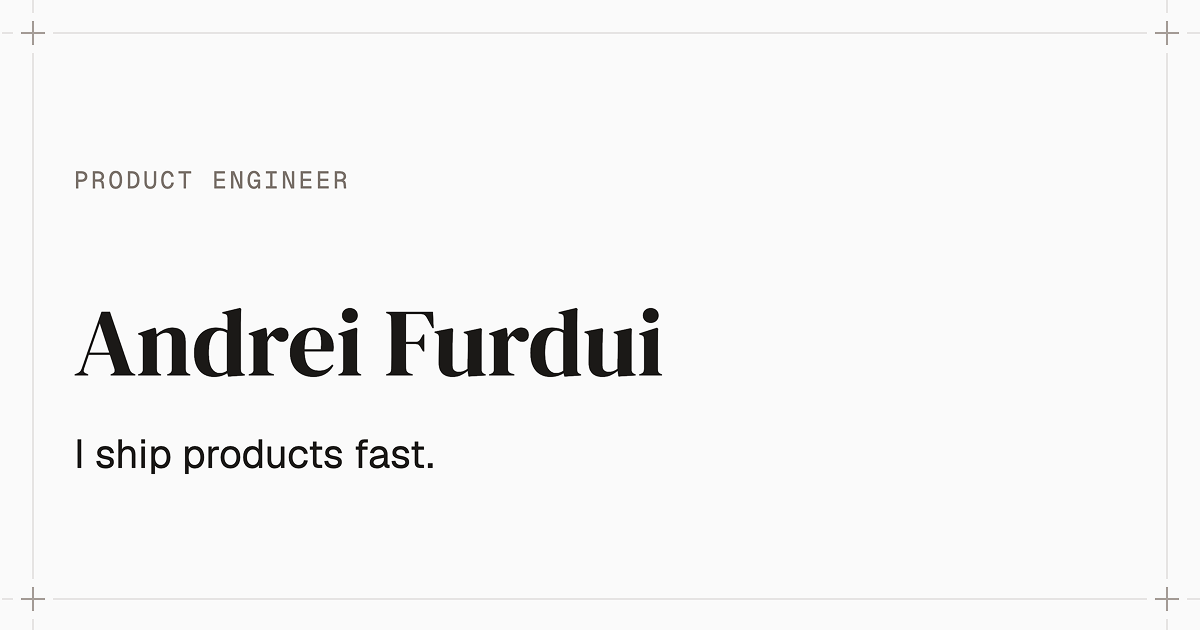
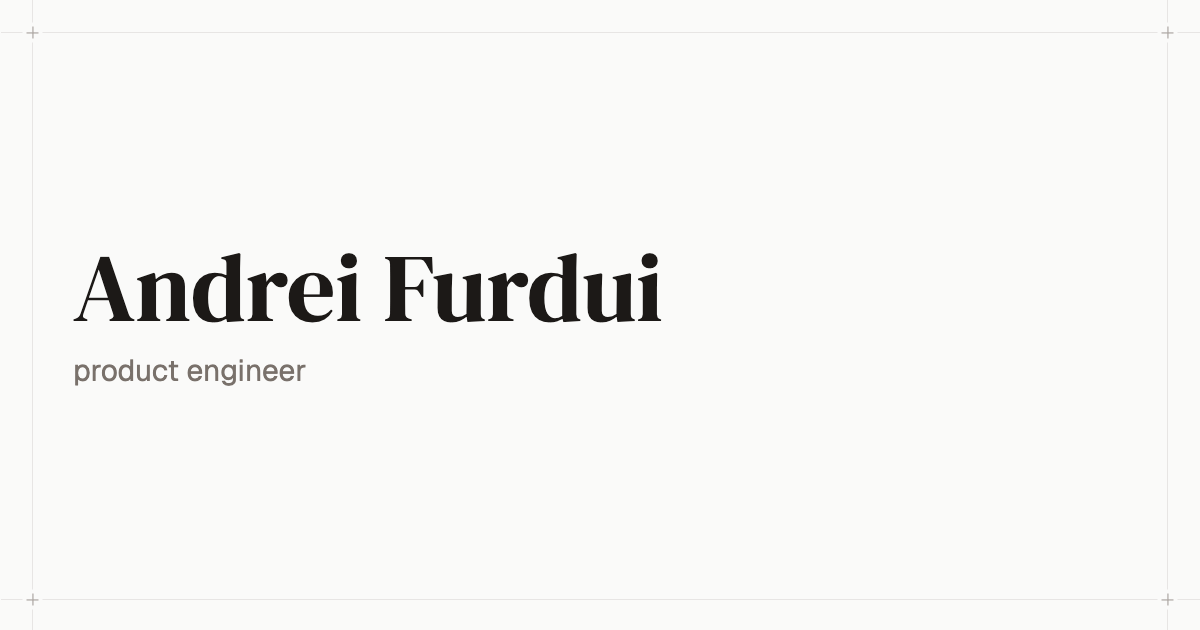
feat(ui): remove the top product engineer row

diff --git a/src/components/HomePage/HomePage.css b/src/components/HomePage/HomePage.css
@@ -142,18 +142,6 @@
   padding-block: fluid(var(--space-16), var(--space-24));
 }
 
-.home_page-hero_tag {
-  color: var(--ink-muted);
-  font-family: var(--font-mono);
-  font-size: var(--text-xs);
-  text-transform: uppercase;
-  letter-spacing: 0.12em;
-}
-
-.home_page-hero_tag[data-variant='muted'] {
-  color: var(--ink-faint);
-}
-
 .home_page-title {
   color: var(--ink-main);
   font-family: var(--font-heading);
@@ -162,10 +150,12 @@
   line-height: var(--leading-none);
 }
 
-.home_page-hero_lead {
-  color: var(--ink-main);
-  font-size: fluid(var(--text-xl), var(--text-3xl));
-  line-height: var(--leading-tight);
+.home_page-role {
+  color: var(--ink-muted);
+  font-family: var(--font-body);
+  font-size: fluid(var(--text-base), var(--text-xl));
+  font-weight: var(--weight-regular);
+  line-height: var(--leading-base);
 }
 
 /* CORE BELIEFS SECTION */

diff --git a/src/copy/home.ts b/src/copy/home.ts
@@ -22,13 +22,9 @@ export type HomeCopy = {
     title: string
     description: string
   }
-  ui: {
-    themeToggle: string
-  }
   hero: {
-    tag: string
     name: string
-    lead: string
+    role: string
   }
   beliefs: {
     title: string
@@ -93,15 +89,11 @@ export const homeCopy: HomeCopy = {
   meta: {
     title: 'Andrei Furdui · Product Engineer',
     description:
-      'I ship products fast. Ex-founder & former Volkswagen engineer. I build resilient, zero-bloat systems for startups.',
-  },
-  ui: {
-    themeToggle: 'Toggle theme',
+      'Product engineer. Ex-founder & former Volkswagen engineer. I build resilient, zero-bloat systems for startups.',
   },
   hero: {
-    tag: 'Product Engineer',
     name: 'Andrei Furdui',
-    lead: 'I ship products fast.',
+    role: 'product engineer',
   },
   beliefs: {
     title: 'Core Beliefs',
